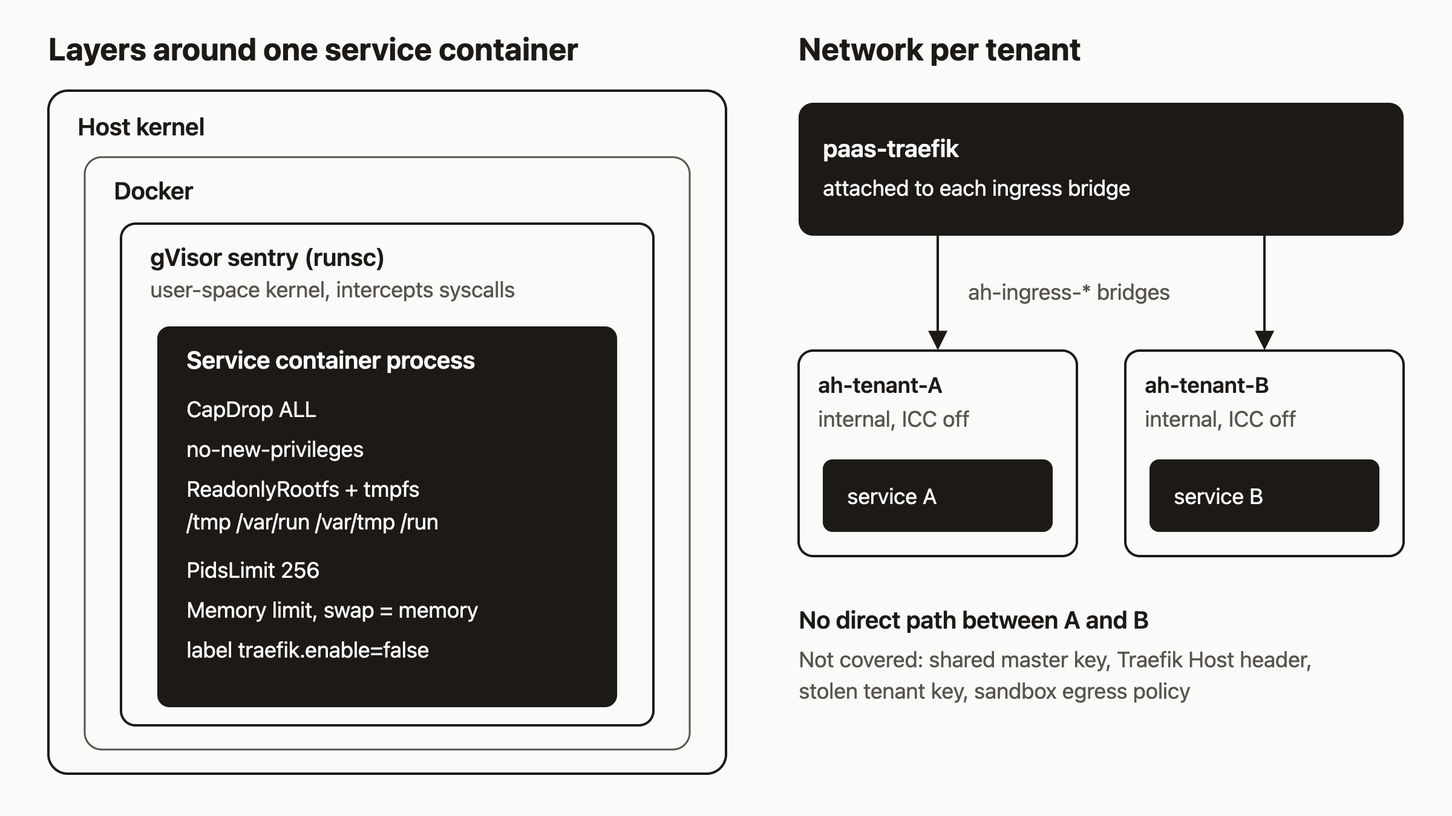
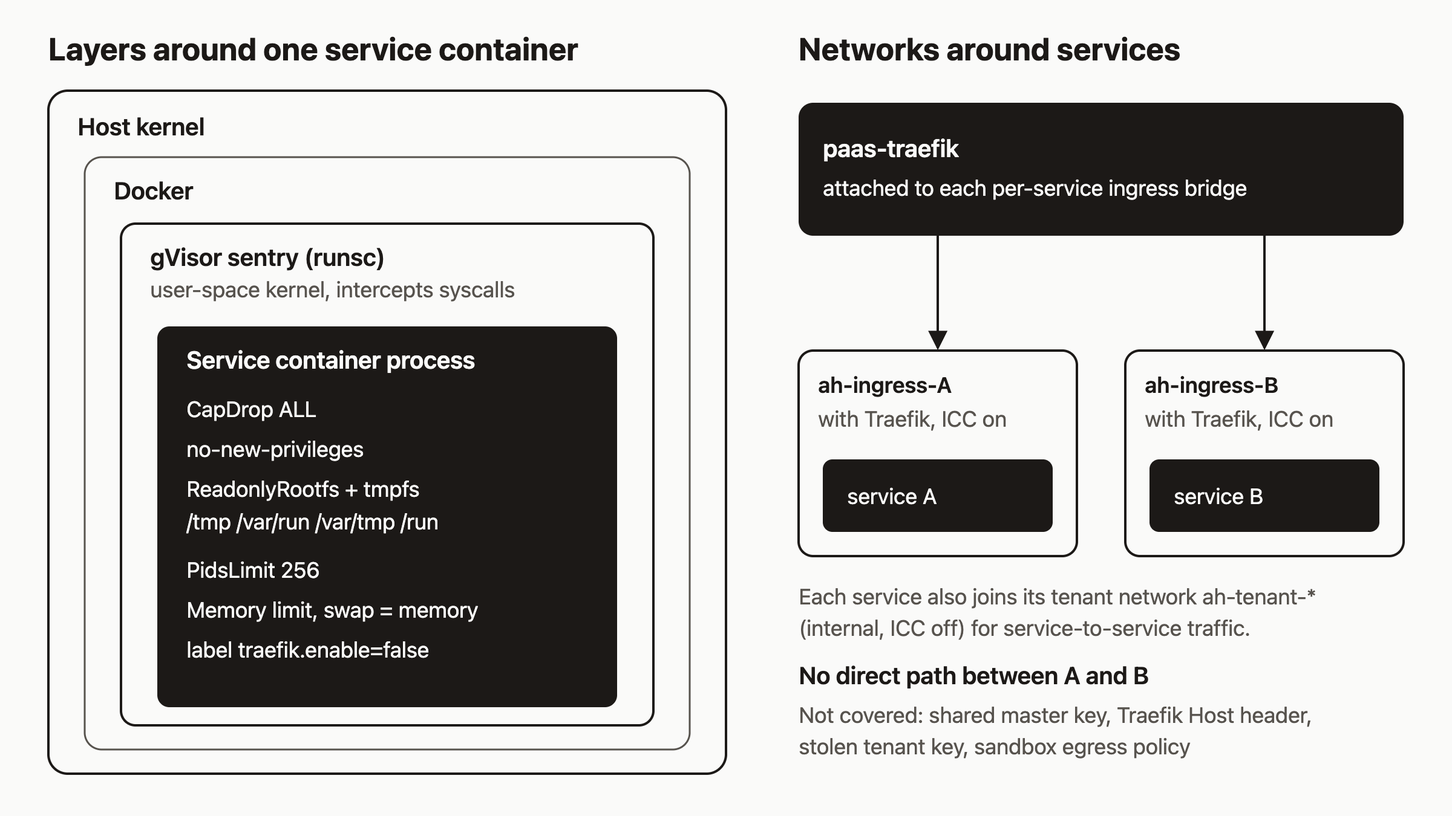
docs(blog): fix tutorial claims found by Astra review; hold database posts
Astra found 20 claims the code does not support, such as GC only touching
ah-labelled resources, a deploy loop that skipped cleanup on exceptions,
and an nginx image that crash-loops under the read-only rootfs. Each was
confirmed in the code and fixed. Posts 08 and 09 are marked publish: false
because services cannot reach managed databases yet (#164).

diff --git a/docs/blog/tutorials/09-add-redis-to-a-service.md b/docs/blog/tutorials/09-add-redis-to-a-service.md
@@ -17,13 +17,17 @@ sources:
   - docs-site/src/content/docs/env.md
   - docs/ops/fresh-install.md
   - CHANGELOG.md
+publish: false
+hold_reason: "Services cannot reach managed databases yet: https://github.com/dennisonbertram/agentic-hosting/issues/164"
 ---
 
 # Add Redis as a cache or job queue
 
-A cache, a rate limiter, and a job queue all want Redis, and I think an agent should be able to add one to a service with a single command. That is what this post shows. You have a web service running on agentic-hosting. By the end you will have a Redis container with a password, its connection string stored encrypted as `REDIS_URL` on your service, and a small route that does a SET and GET through that URL.
+A cache, a rate limiter, and a job queue all want Redis, and I think an agent should be able to add one to a service with a single command. That is what this post shows. You have a web service running on agentic-hosting. By the end you will have a Redis container with a password and its connection string stored encrypted as `REDIS_URL` on your service.
 
-Here is a caveat that changes how you should read the rest. The code gives your service the connection string, but I could not confirm from the code that a service container can reach that address. The "How it works" section explains why and gives you a check you can run. I did not run the commands in this post. I checked them against the source.
+Limitation: this does not work yet. The connection string uses `127.0.0.1`, and the database port is bound to the host's loopback interface only, so a service container cannot reach its database. This is tracked in [issue #164](https://github.com/dennisonbertram/agentic-hosting/issues/164). The steps below create Redis and set the variable correctly, but the SET and GET route in Step 3 will fail with a connection error until that issue is fixed.
+
+The "How it works" section explains why. I did not run the commands in this post. I checked them against the source.
 
 ## Prerequisites
 
@@ -82,6 +86,16 @@ curl -s -X POST "$AH_URL/v1/databases" \
 
 The response is HTTP 201 with the database record, including `id`, `status: "ready"`, `host`, `port` and a `connection_string`. Fetch the string again later from `GET /v1/databases/{dbID}/connection-string`. That call is written to the server log as an audit event.
 
+Look up the service ID and the connection string first. The list response is JSON; copy the `id` of `my-app` and the `connection_string` of the Redis database (use `python3` or `jq` to extract them; do not echo the string, it contains the password):
+
+```bash
+curl -s -H "Authorization: Bearer $AH_API_KEY" "$AH_URL/v1/services"
+export SERVICE_ID="<id-of-my-app>"
+export DB_ID="<id-from-the-create-response>"
+CONN=$(curl -s -H "Authorization: Bearer $AH_API_KEY" \
+  "$AH_URL/v1/databases/$DB_ID/connection-string" | python3 -c 'import sys,json; print(json.load(sys.stdin)["connection_string"])')
+```
+
 Set the env var. This merges into the existing env and does not replace it:
 
 ```bash
@@ -129,7 +143,7 @@ Deploy it the same way you deployed `my-app`. The [deploy guide](https://agentic
 curl https://<your-service-host>/redis-check
 ```
 
-If everything is reachable you will see `{"roundTrip":"world"}`. If the service cannot reach Redis, the log will show a connection error instead. Read it with `GET /v1/services/{id}/logs`. Treat that result as the real test of your setup. I have not seen either outcome.
+Once the service can reach Redis you should see `{"roundTrip":"world"}`. Until issue #164 is fixed, the log shows a connection error instead. Read it with `GET /v1/services/{id}/logs`. I have not run this route.
 
 ## Step 4: How readiness is checked
 
@@ -154,13 +168,13 @@ The server logs an `AUDIT: action=env.revealed` line with your tenant, the servi
 
 The diagram shows the pieces.
 
-![Architecture diagram: ah probes a Redis container with AUTH and PING; REDIS_URL is stored encrypted in service_env and injected into the app container when it is created; the Redis data lives on an ah-db volume that survives restart and is wiped on delete.](diagrams/09-add-redis-to-a-service.png)
+![Architecture diagram: ah probes a Redis container with AUTH and PING; REDIS_URL is stored encrypted in service_env and injected into the app container when it is created; the Redis data lives on an ah-db volume that survives restart and gets a best-effort wipe on delete.](diagrams/09-add-redis-to-a-service.png)
 
 - `ah` creates a volume named `ah-db-<id>`, starts `redis:7-alpine` under gVisor (`runsc`) with `--requirepass`, and probes it with AUTH and PING.
 - The password is random, and the connection string is encrypted with the server master key before it is stored.
 - `REDIS_URL` goes into the service's encrypted env. It is injected when the container is created, which is why a restart is needed.
 
-Now the part I could not confirm. The Redis container is published on `127.0.0.1:<port>` on the host, and that is the address inside the connection string. In the code, service containers are attached to the tenant network `ah-tenant-<tenant id>`. I found no code that attaches the Redis container to that network, and none that rewrites the host in the connection string. Inside a container, `127.0.0.1` normally means the container itself, so a connection from your service may fail with "connection refused". The `/redis-check` route is how you find out on your install.
+Here is why the connection fails. The Redis container is published on `127.0.0.1:<port>` on the host, and that is the address inside the connection string. In the code, service containers are attached to the tenant network `ah-tenant-<tenant id>`. I found no code that attaches the Redis container to that network, and none that rewrites the host in the connection string. Inside a container, `127.0.0.1` normally means the container itself, so a connection from your service fails with "connection refused" ([issue #164](https://github.com/dennisonbertram/agentic-hosting/issues/164)). The `/redis-check` route shows that error in your logs.
 
 If you only need to confirm that the Redis itself works, you can do it on the host where `ah` runs. Reveal the connection string through the audited endpoint and use `redis-cli -u "$CONN" PING`. You should get `PONG`.
 
@@ -170,7 +184,7 @@ If you only need to confirm that the Redis itself works, you can do it on the ho
 - **Tenant quota.** The default is 3 databases per tenant, counting every database that is not `failed`. Going over returns a quota error.
 - **Limits.** Database containers get 512 MB of memory, no swap, and a 256-process limit.
 - **Names.** 1 to 63 characters, starting with a letter, with letters, digits, hyphens and underscores, and no trailing hyphen.
-- **Delete wipes the volume.** `DELETE /v1/databases/{dbID}` stops the container, overwrites the volume's files with zeros, and removes the volume. It returns 204. With the CLI you must pass `--confirm`.
+- **Delete attempts a wipe.** `DELETE /v1/databases/{dbID}` stops the container, tries to overwrite the volume's files with zeros, and removes the volume. The wipe is best effort: if it fails, the error is logged and deletion continues, so a 204 does not prove the data was overwritten. With the CLI you must pass `--confirm`.
 - **A restart keeps data.** Restarting your service does not touch the Redis volume. Deleting the database does.
 
 Before you delete, change or remove `REDIS_URL` on any service that uses it. Deleting does not do that for you.
@@ -181,4 +195,4 @@ Before you delete, change or remove `REDIS_URL` on any service that uses it. Del
 - Read [Env vars and secrets](https://agentic.hosting/docs/env/) for key limits and validation rules.
 - Check [Troubleshooting](https://agentic.hosting/docs/troubleshooting/) if provisioning fails.
 - Look at the [security model](https://agentic.hosting/docs/security/) for how secrets are encrypted.
-- The source is on [GitHub](https://github.com/dennisonbertram/agentic-hosting). If your service cannot reach Redis, an issue with your log output helps.
+- The source is on [GitHub](https://github.com/dennisonbertram/agentic-hosting). The reachability problem is tracked in [issue #164](https://github.com/dennisonbertram/agentic-hosting/issues/164).

diff --git a/docs/blog/tutorials/08-add-postgres-to-a-service.md b/docs/blog/tutorials/08-add-postgres-to-a-service.md
@@ -20,6 +20,8 @@ sources:
   - docs-site/src/content/docs/databases.md
   - skills/agentic-hosting/SKILL.md
   - README.md
+publish: false
+hold_reason: "Services cannot reach managed databases yet: https://github.com/dennisonbertram/agentic-hosting/issues/164"
 ---
 
 # Add a Postgres database to your service
@@ -28,7 +30,9 @@ Your app works until it needs to remember something. Then it needs a real databa
 
 By the end of this tutorial you will have a managed Postgres container, its connection string stored as `DATABASE_URL` on your service, and the service restarted so it picks that variable up. I show it three ways: raw API calls so you can see each step, one `ahc` command, and one slash command in Claude Code.
 
-Note: the commands below were checked against the agentic-hosting source, not run end to end for this post. The last section lists one thing the code does not settle.
+Limitation: this does not work yet. The connection string uses `127.0.0.1`, and the database port is bound to the host's loopback interface only, so a service container cannot reach its database. This is tracked in [issue #164](https://github.com/dennisonbertram/agentic-hosting/issues/164). The steps below create the database and set the variable correctly, but the service will not connect.
+
+Note: the commands below were checked against the agentic-hosting source, not run end to end for this post. The last section covers the connectivity problem in more detail.
 
 ![Sequence diagram: agent creates the database through the ah API, Docker runs Postgres under gVisor, the API stores the encrypted connection string, then the agent sets the env var and restarts the service](diagrams/08-add-postgres-to-a-service.png)
 
@@ -159,13 +163,13 @@ Follow the diagram top to bottom.
 
 ## Cleanup, limits, and handling the string
 
-- **Deleting.** `ahc db delete my-app-postgres --confirm` (or `DELETE /v1/databases/{id}`, which returns `204`) removes the container and wipes and removes the volume. There is no undo. Deleting does not touch the service's `DATABASE_URL`, so remove or replace it before the service restarts again.
+- **Deleting.** `ahc db delete my-app-postgres --confirm` (or `DELETE /v1/databases/{id}`, which returns `204`) removes the container and removes the volume. It first tries to overwrite the volume's files, but that wipe is best effort: if it fails, the error is logged and deletion continues, so a successful response does not prove the data was overwritten. There is no undo. Deleting does not touch the service's `DATABASE_URL`, so remove or replace it before the service restarts again.
 - **Quota.** The default is 3 databases per tenant. Rows with status `failed` do not count. The fourth create returns `409` with `quota exceeded: maximum 3 databases reached`.
 - **Secrets.** Only echo the host and port back to a user, a log, or another agent. Treat the full string like a password. Each read is audit-logged, so fetch it when you need it and avoid caching it in chat transcripts.
 
 ## One thing to check on your deployment
 
-The connection string host is `127.0.0.1`, and the database port is bound to the host's loopback interface. Service containers run on a per-tenant Docker network. I could not confirm from the code that a service container can reach that address, so verify it on your deployment: after the restart, check your service logs for a successful database connection before you rely on it. If it cannot connect, the [troubleshooting page](https://agentic.hosting/docs/troubleshooting/) is the place to start.
+The connection string host is `127.0.0.1`, and the database port is bound to the host's loopback interface. Service containers run on a per-tenant Docker network, and inside a container `127.0.0.1` is the container itself. A service therefore cannot reach its database today ([issue #164](https://github.com/dennisonbertram/agentic-hosting/issues/164)). After the restart, a connection from your service will fail. If you want to look at the failure, the [troubleshooting page](https://agentic.hosting/docs/troubleshooting/) is the place to start.
 
 ## What to try next
 

diff --git a/docs/blog/tutorials/25-write-an-agent-deploy-loop.md b/docs/blog/tutorials/25-write-an-agent-deploy-loop.md
@@ -122,11 +122,13 @@ def call(method, path, body=None, idem=None, text=False):
             time.sleep(2 ** attempt)  # same Idempotency-Key, so a POST retry is safe
     raise Stop(f"{method} {path}: gave up after 6 attempts")
 
-def deploy(name, repo, ref, port, service_id=None, timeout=600):
+def deploy(name, repo, ref, port, service_id=None, timeout=600, state=None):
+    state = state if state is not None else {}
     run = uuid.uuid4().hex  # reuse this value to retry the whole run safely
     if not service_id:
         svc = call("POST", "/services", {"name": name, "image": "pending", "port": port}, f"create-{run}")
         service_id = svc["id"]
+    state["service_id"] = service_id
     b = call("POST", f"/services/{service_id}/builds",
              {"source_type": "git", "source_url": repo, "source_ref": ref}, f"build-{run}")
     bid, deadline = b["build_id"], time.time() + timeout
@@ -156,18 +158,23 @@ if __name__ == "__main__":
     p.add_argument("--service", help="rebuild an existing service id instead of creating one")
     p.add_argument("--cleanup", action="store_true", help="delete the service if the deploy fails")
     a = p.parse_args()
+    state = {}  # deploy() records the service id here as soon as it exists
     try:
-        res = deploy(a.name, a.repo, a.ref, a.port, a.service)
-        if not res["ok"] and a.cleanup:
-            call("DELETE", f"/services/{res['service_id']}")
-            res["deleted"] = True
-    except Stop as e:
+        res = deploy(a.name, a.repo, a.ref, a.port, a.service, state=state)
+    except Exception as e:  # Stop, or a bad response shape after the service exists
         res = {"ok": False, "reason": str(e)}
+    sid = state.get("service_id")
+    if not res["ok"] and a.cleanup and sid and not a.service:
+        try:
+            call("DELETE", f"/services/{sid}")
+            res["deleted"] = True
+        except Stop as e:
+            res["cleanup_error"] = str(e)
     print(json.dumps(res, indent=2))
     sys.exit(0 if res["ok"] else 1)
 ```
 
-The `--service` flag is the redeploy path. Pass an existing service id and the script skips create and starts a new build on it. The `--cleanup` flag deletes the service if the deploy fails, which returns 204 with no body.
+The `--service` flag is the redeploy path. Pass an existing service id and the script skips create and starts a new build on it. The `--cleanup` flag deletes a service the script created if the deploy fails, including when the failure is an error raised after the create call. It never deletes a service you passed with `--service`. The delete returns 204 with no body.
 
 ## Step 6: Run it
 

diff --git a/docs/blog/tutorials/18-rate-limits-quotas-and-usage.md b/docs/blog/tutorials/18-rate-limits-quotas-and-usage.md
@@ -154,7 +154,7 @@ curl -s -H "Authorization: Bearer $AH_API_KEY" \
   "$AH_API/services/$SERVICE_ID/metrics?period=daily" | jq .
 ```
 
-Each row has `timestamp`, `cpu_seconds`, `memory_mb_avg`, `network_rx_bytes` and `network_tx_bytes` (plus `service_id` on the tenant view). A bad `period` or timestamp returns 400, and a service that is not yours returns 404.
+Each row has `timestamp`, `cpu_seconds`, `memory_mb_avg`, `network_rx_bytes` and `network_tx_bytes` (plus `service_id` on the tenant view). Today the collector records only CPU and memory, so the two network fields are always 0. A bad `period` or timestamp returns 400, and a service that is not yours returns 404.
 
 ## 6. Raise quotas as the operator
 
@@ -166,11 +166,11 @@ curl -s -X PATCH $AH_API/tenants/$TENANT_ID/quotas \
   -d '{"max_services": 10, "max_databases": 5}'
 ```
 
-You can set `max_services` (cap 100), `max_databases` (cap 50), `max_builds_concurrent` (cap 10) and `max_env_vars_per_service` (cap 500). Fields you leave out stay unchanged. The response echoes all quotas, including `max_memory_mb`, `max_cpu_cores`, `max_disk_gb` and `api_rate_limit`. This route shares the 5-per-IP-per-hour limiter, so batch your changes.
+You can set `max_services` (cap 100), `max_databases` (cap 50), `max_builds_concurrent` (cap 10) and `max_env_vars_per_service` (cap 500). Fields you leave out stay unchanged. Two of these are stored and returned but not enforced yet: `max_builds_concurrent` and `max_env_vars_per_service`. The builder allows one active build per tenant, and env updates are limited to 100 keys per request, whatever those values say. Raising them does not add capacity. The response echoes all quotas, including `max_memory_mb`, `max_cpu_cores`, `max_disk_gb` and `api_rate_limit`. This route shares the 5-per-IP-per-hour limiter, so batch your changes.
 
 ## 7. Know the defaults
 
-The schema gives a new tenant these quotas: 5 services, 3 databases, 3 concurrent builds, 50 env vars per service, 2048 MB memory, 2 CPUs, 20 GB disk, and an API rate of 100 requests per second. The PATCH route does not accept memory, CPU, disk or rate limit, so those change only by editing the database directly.
+The schema gives a new tenant these quotas: 5 services, 3 databases, 3 concurrent builds and 50 env vars per service (stored, not enforced, as above), 2048 MB memory, 2 CPUs, 20 GB disk, and an API rate of 100 requests per second. The PATCH route does not accept memory, CPU, disk or rate limit, so those change only by editing the database directly.
 
 ## How it works
 

diff --git a/docs/blog/tutorials/19-idempotency-keys-for-agent-retries.md b/docs/blog/tutorials/19-idempotency-keys-for-agent-retries.md
@@ -1,6 +1,6 @@
 ---
 title: "Make agent retries safe with idempotency keys"
-description: "Add an Idempotency-Key header so an agent that retries POST /v1/databases after a timeout never creates two databases."
+description: "Add an Idempotency-Key header so an agent that retries POST /v1/databases after a timeout does not create a second database when the first attempt succeeded."
 slug: idempotency-keys-for-agent-retries
 tags: [idempotency, agents, reliability, api, curl]
 cover_diagram: diagrams/19-idempotency-keys-for-agent-retries.png
@@ -24,7 +24,7 @@ sources:
 
 Agents retry. I think that is the right behavior, and it is also how they end up creating things twice.
 
-Your agent calls `POST /v1/databases`. Provisioning a database takes a while, because the server may have to pull an image first. Your HTTP client gives up after 30 seconds and the agent retries. But the first request never stopped. The server is still building the database. Now you may have two.
+Your agent calls `POST /v1/databases`. Provisioning a database takes a while, because the server may have to pull an image first. Your HTTP client gives up after 30 seconds and the agent retries. The first request may still be running, or it may have been cancelled when the connection dropped, since database creation uses the request's context. Either way, a plain retry can leave you with two databases, or with one half-created.
 
 By the end of this post you will have a create call you can retry as many times as you like, and you will know which routes the protection covers and which it does not.
 
@@ -75,6 +75,8 @@ If it times out, send the exact same command again, same `$KEY`, same body. The 
 
 - If the first request already finished with a 2xx, you get the stored response back, with the header `Idempotency-Replayed: true`. The handler does not run again.
 - If the first request is still running, your retry waits for it and then gets that response (see step 5).
+
+Only 2xx responses are stored. If the first attempt fails or is cancelled, the key is released and your retry runs the handler again, which can happen after a provisioning row was already inserted. The key protects against duplicate successes, not against every partial failure, so check `GET /v1/databases` after an error.
 
 A replayed create looks like this:
 

diff --git a/docs/blog/tutorials/23-claude-code-skill-and-slash-commands.md b/docs/blog/tutorials/23-claude-code-skill-and-slash-commands.md
@@ -124,6 +124,8 @@ redis    -> REDIS_URL
 
 Last, it calls `POST /v1/services/{id}/restart` and polls until the service is `running`. Your app reads `DATABASE_URL` from its environment on the next start.
 
+Limitation: the connection string uses `127.0.0.1` and the database port is bound to the host's loopback only, so the service cannot connect to the database yet ([issue #164](https://github.com/dennisonbertram/agentic-hosting/issues/164)). The command sets the variable, but I would not rely on this workflow until that is fixed.
+
 ## Step 6: Read logs and check status
 
 ```text
@@ -155,7 +157,7 @@ When Claude proposes a call that returns `400` or `422`, ask it to check the end
 
 ## How it works
 
-The diagram reads left to right. Your prompt reaches a command file in `~/.claude/commands/`. That file is a short instruction to Claude with `$1`, `$2` and `$3` filled from your arguments. `SKILL.md` adds the broader API knowledge, such as error meanings and the circuit breaker. Claude turns both into `curl` calls using `$AH_URL` and `$AH_KEY`, and the `ah` server on your host does the work. Registration and the basic health check (`GET /v1/system/health`) skip the API key.
+The diagram reads left to right. Your prompt reaches a command file in `~/.claude/commands/`. That file is a short instruction to Claude with `$1`, `$2` and `$3` filled from your arguments. `SKILL.md` adds the broader API knowledge, such as error meanings and the circuit breaker. Claude turns both into `curl` calls using `$AH_URL` and `$AH_KEY`, and the `ah` server on your host does the work. Registration, the basic health check (`GET /v1/system/health`), and a few operator routes (key recovery, tenant reactivation, bootstrap token validation, quota updates) skip the API key. Bootstrap token validation takes the bootstrap token; the other three take the admin token (`X-Admin-Token`) on current installs.
 
 ## What to try next
 

diff --git a/docs/blog/tutorials/05-deploy-a-go-app-from-git.md b/docs/blog/tutorials/05-deploy-a-go-app-from-git.md
@@ -50,7 +50,7 @@ ahc deploy https://github.com/hashicorp/http-echo my-go-app --port 5678
 
 `ahc` treats any source that starts with `http://` or `https://` as a git URL. Anything else is treated as a Docker image. Here is what it does for a git URL:
 
-1. Creates a service named `my-go-app` with the placeholder image `pending`. The create call requires an image, and the build replaces it later. If a service with that name already exists, `ahc` reuses it.
+1. Creates a service named `my-go-app` with the placeholder image `pending`. The create call requires an image, and the build replaces it later. If the create call fails because a service with that name already exists, `ahc` looks it up by name and reuses it. A server without a base domain allows duplicate names, so there the create succeeds and you get a second service.
 2. Starts a build with `source_type: "git"` and your URL.
 3. Opens the build log stream and prints each line with a `[build]` prefix.
 4. Polls the build until it is `succeeded`, `failed` or `cancelled`.
@@ -167,7 +167,7 @@ ahc deploy --redeploy my-go-app
 ahc build list my-go-app   # same id, no new row
 ```
 
-To build new code, start a new build. Re-running `ahc deploy https://github.com/hashicorp/http-echo my-go-app --port 5678` reuses the existing service, starts a build with a new id, and replaces the running image when that build succeeds. Use redeploy when you changed environment variables and just need a restart.
+To build new code, start a new build. Re-running `ahc deploy https://github.com/hashicorp/http-echo my-go-app --port 5678` reuses the existing service (on a server with a base domain; without one it creates a second service), starts a build with a new id, and replaces the running image when that build succeeds. Use redeploy when you changed environment variables and just need a restart.
 
 ## How it works
 

diff --git a/docs/blog/tutorials/21-gvisor-and-container-lockdown.md b/docs/blog/tutorials/21-gvisor-and-container-lockdown.md
@@ -133,7 +133,7 @@ Routing works differently. For a routed service, the server creates a separate n
 
 I would read this part slowly. I think a short, honest list of gaps is worth more than a long list of features.
 
-- **One master key.** Service env vars, database passwords, and API key hashes all use the same 32-byte master key on the server. HKDF key separation is a written plan (`docs/security/hkdf-key-separation-plan.md`), not running code. There is no per-tenant key.
+- **One master key.** Service env vars and database passwords are encrypted with the same 32-byte master key on the server. API keys are hashed with a separate HMAC key kept in the `server_secrets` table. It was seeded from the master key on first start and does not change when the master key is rotated. HKDF key separation is a written plan (`docs/security/hkdf-key-separation-plan.md`), not running code. There is no per-tenant key.
 - **A stolen tenant key is a stolen tenant.** It can deploy, delete, read revealed env values, fetch database connection strings, create more keys, and delete the tenant. Give each agent its own key with `POST /v1/auth/keys` and revoke it when done.
 - **Sandbox environments do not enforce outbound policy.** Environment templates have an `egress_policy` field and the server copies it into an `EgressAllow` setting. I searched the code and nothing reads that value to change networking. Do not rely on it.
 - **Traefik is reachable from a workload.** A workload can reach its own ingress bridge and send a Host header for another public route. That is the same as calling the public hostname, so the target app's own authentication still has to hold.

diff --git a/docs/blog/tutorials/06-deploy-a-node-app-from-git.md b/docs/blog/tutorials/06-deploy-a-node-app-from-git.md
@@ -145,7 +145,9 @@ git commit -am "second version" && git push
 ahc deploy https://github.com/YOU/node-demo node-demo --port 3000
 ```
 
-The second `deploy` tries to create `node-demo`, which already exists. The CLI then looks the service up by name, prints `Using existing service "node-demo"`, and starts a fresh build from the latest commit. When the build succeeds, the old container is stopped and removed and a new one starts from the new image.
+The second `deploy` tries to create `node-demo`, which already exists. When the server has a base domain, the create fails because the name maps to a DNS label that is already taken, so the CLI looks the service up by name prints `Using existing service "node-demo"`, and starts a fresh build from the latest commit. When the build succeeds, the old container is stopped and removed and a new one starts from the new image.
+
+This reuse depends on the create call failing. If the server has no base domain (the localhost setup), duplicate service names are allowed, the create succeeds, and `ahc deploy` makes a second service called `node-demo` instead of updating the first. In that case, delete the old service or rebuild it by id with the API.
 
 Do not use `ahc deploy --redeploy node-demo` for this. It calls the same endpoint as `ahc service redeploy` and restarts the container without a new build, so your push would not appear. (The docs page on deploys describes `POST /v1/services/{id}/redeploy` as starting a new build. The handler in the code only restarts, and I went with the code.)
 

diff --git a/docs/blog/tutorials/README.md b/docs/blog/tutorials/README.md
@@ -5,11 +5,12 @@
 ## How these were checked
 
 - Every command, endpoint, field and flag was checked against the code on `main` (commit 330ff4f). The commands were **not executed** against a live server; each post says so.
-- Each post was checked for accuracy by Muse (`meta/muse-spark-1.3` via OpenRouter) against the files in its `sources` list. A Sonnet agent then verified each Muse finding in the code and fixed only the confirmed ones.
+- Each post was checked for accuracy by Muse (`meta/muse-spark-1.3` via OpenRouter) against the files in its `sources` list. A Sonnet agent then verified each Muse finding in the code and fixed only the confirmed ones. An Astra (gpt-6-astra) review of the full set found 20 more problems; all were confirmed in the code and fixed.
 - A final pass edited for a plain, first-person voice and removed AI-slop phrasing. Posts contain no invented anecdotes, metrics or transcripts.
 
 ## Notes for the publishing agent
 
+- **Do not publish posts with `publish: false` in their front matter.** Posts 08 (Postgres) and 09 (Redis) are on hold: services cannot reach managed databases yet ([#164](https://github.com/dennisonbertram/agentic-hosting/issues/164)).
 - Image paths are relative (`diagrams/NN-slug.png`). Upload the PNG and rewrite the path for the target platform.
 - `sources` is for reviewers. Drop it from the published front matter if the platform rejects unknown keys.
 - Posts 01-04 on dev.to already used covers `docs-site/public/blog/cover-0[1-4]*.jpg`; these tutorials are new topics.

diff --git a/docs/blog/tutorials/17-back-up-and-restore-ah.md b/docs/blog/tutorials/17-back-up-and-restore-ah.md
@@ -117,10 +117,10 @@ sudo chown ah:ah /var/lib/ah/ah.db /var/lib/ah/ah-metering.db /var/lib/ah/master
 sudo chmod 600 /var/lib/ah/ah.db /var/lib/ah/ah-metering.db
 
 sudo systemctl start ah
-curl -s http://127.0.0.1:8080/v1/system/health
+curl -s -H 'X-Forwarded-Proto: https' http://127.0.0.1:8080/v1/system/health
 ```
 
-There is no `ah restore` command. The restore is these file operations. Stop ah first, because it holds the database open. Moving the old `-wal` and `-shm` files out of the way matters: a stale WAL file next to a restored database is a bad combination. The `ah:ah` ownership matches `User=ah` in the unit file. The health route is public, so it needs no API key.
+There is no `ah restore` command. The restore is these file operations. Stop ah first, because it holds the database open. Moving the old `-wal` and `-shm` files out of the way matters: a stale WAL file next to a restored database is a bad combination. The `ah:ah` ownership matches `User=ah` in the unit file. The health route needs no API key, but the server still requires HTTPS. A request from loopback must carry `X-Forwarded-Proto: https`, as Traefik adds in production, or it gets a 403.
 
 If you skip the metering file, ah creates a fresh metering database and you lose usage history.
 

diff --git a/docs/blog/tutorials/20-one-api-key-per-agent.md b/docs/blog/tutorials/20-one-api-key-per-agent.md
@@ -198,7 +198,7 @@ So the recovery plan is short. Revoke the stolen key, check the list for keys yo
 
 ## How it works
 
-The diagram shows the flow in two rows. A key is `keyID.secret`. On create, the server hashes the full key with HMAC-SHA256 using a server-side secret and stores only the hash and an eight-character prefix. On each request, the auth middleware looks the key up by ID, checks that it is not revoked or expired and that the tenant is `active`, then compares the hash in constant time.
+The diagram shows the flow in two rows. A key is `keyID.secret`. On create, the server hashes the secret part (after the dot) with HMAC-SHA256 using a server-side secret and stores only the hash and an eight-character prefix. On each request, the auth middleware looks the key up by ID, checks that it is not revoked or expired and that the tenant is `active`, then compares the hash in constant time.
 
 The lookup result is cached for 30 seconds, up to 5000 entries. That is why revocation has a stated 30 second ceiling. Suspending a tenant evicts every cached key for that tenant, and reactivating issues a fresh key rather than un-revoking the old ones.
 
